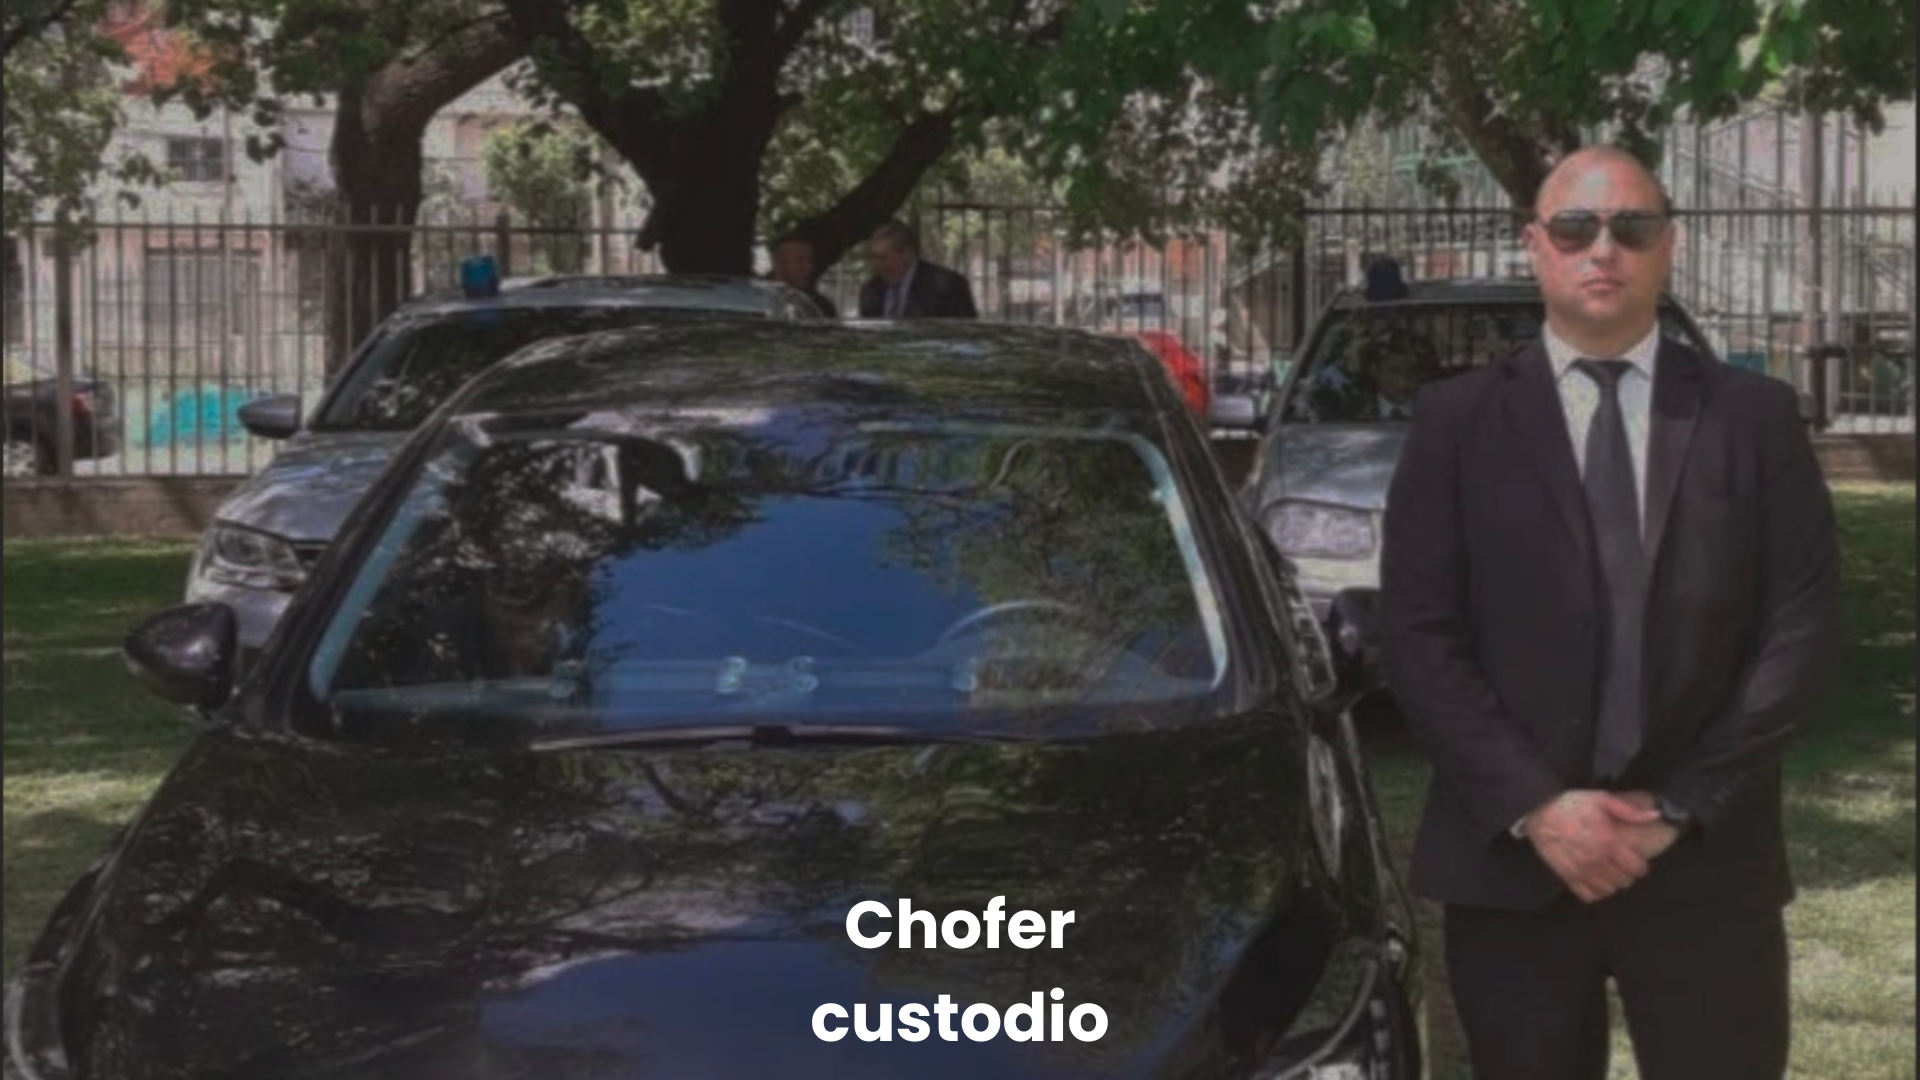
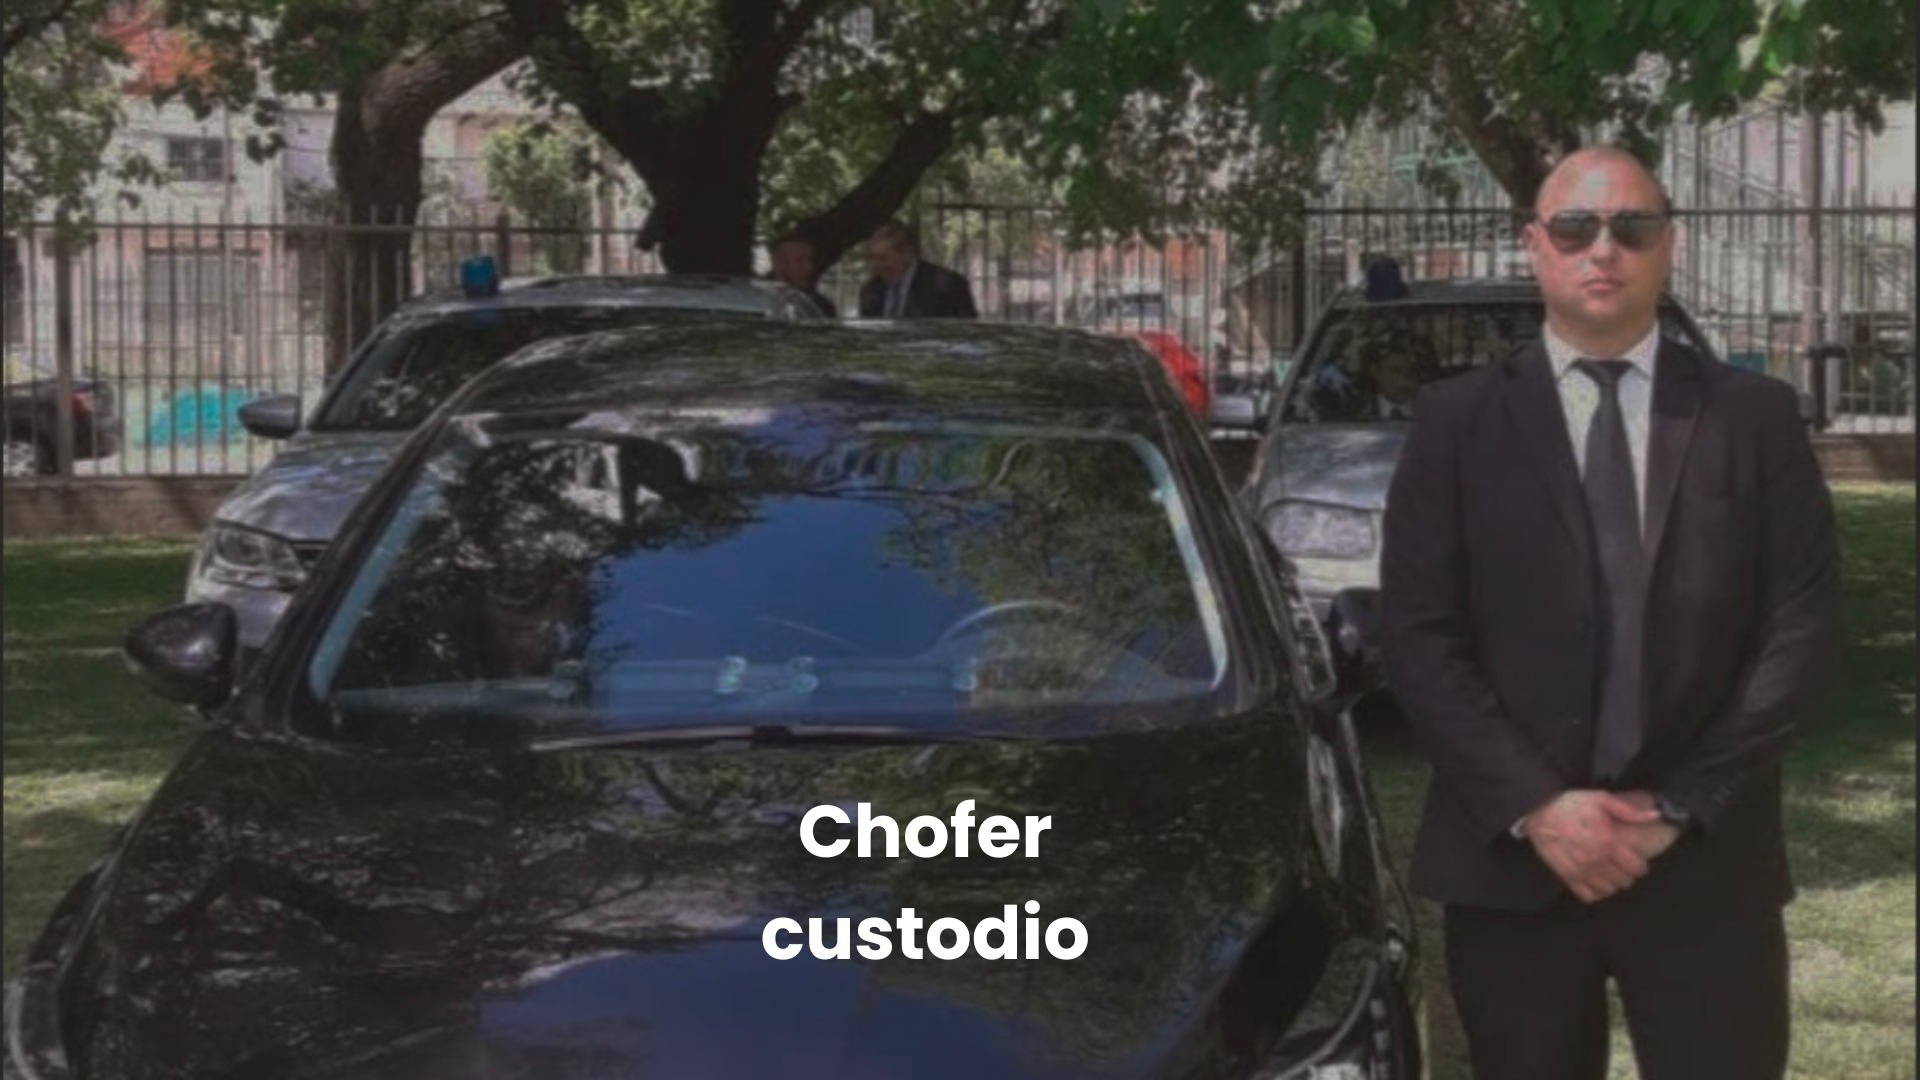
Correccion de imagenes y revisada de ortografia

Changed region(s): [[0.4062, 0.9167, 0.5938, 0.9778], [0.375, 0.825, 0.5938, 0.8861], [0.4062, 0.7333, 0.5625, 0.7944]]

diff --git a/index.html b/index.html
@@ -181,8 +181,9 @@
         <div>
             <div class="gallery">
                 <img class="servicios-img slide-right animate-on-scroll" src="images/prueba.jpg" alt="A Bear">
-                <img class="servicios-img slide-right animate-on-scroll" src="images/Chofer (2).png" alt="A Bear">
-                <img class="servicios-img slide-right animate-on-scroll" src="images/Peritos.png" alt="A Bear">
+                <!-- <img class="servicios-img slide-right animate-on-scroll" src="images/Chofer (3).png" alt="A Bear"> -->
+                <img class="servicios-img slide-right animate-on-scroll" src="images/chofer (2).png" alt="A Bear">
+                <img class="servicios-img slide-right animate-on-scroll" src="images/perito.png" alt="A Bear">
                 <img class="servicios-img slide-right animate-on-scroll" src="images/transporte.jpg" alt="A lioness">
                 <img class="servicios-img slide-right animate-on-scroll" src="images/proteccionbienes.jpg" alt="A Dog">
                 <img class="servicios-img slide-right animate-on-scroll" src="images/establecimientos.jpg" alt="A kind wolf">
@@ -251,20 +252,6 @@
                     <img src="images/Logo.png" class="w-16" alt="Logo" />
                 </a>
             </div>
-            <!-- <div>
-                <h3 class="font-bold text-center mb-2">Nuestras redes</h3>
-                <div class="flex gap-8 md:ml-auto">
-                    <a target="_blank" href="https://api.whatsapp.com/send?phone=5491153130820"><img
-                            class="w-12 hover:scale-110 transition-all"
-                            src="   images/wpp.png " alt=""></a>
-                    <a target="_blank" href="https://www.linkedin.com/in/uriel-rodriguez-lagorio/"><img
-                            class="w-12 hover:scale-110 transition-all"
-                            src="   https://cdn-icons-png.flaticon.com/512/3536/3536505.png " alt=""></a>
-                    <a target="_blank" href="https://github.com/Uradielan"><img
-                            class="w-12 hover:scale-110 transition-all invert"
-                            src="   https://cdn-icons-png.flaticon.com/512/2111/2111425.png " alt=""></a>
-                </div>
-            </div> -->
         </div>
         <div class="flex justify-center">
             <span>Copyright © 2024</span>
